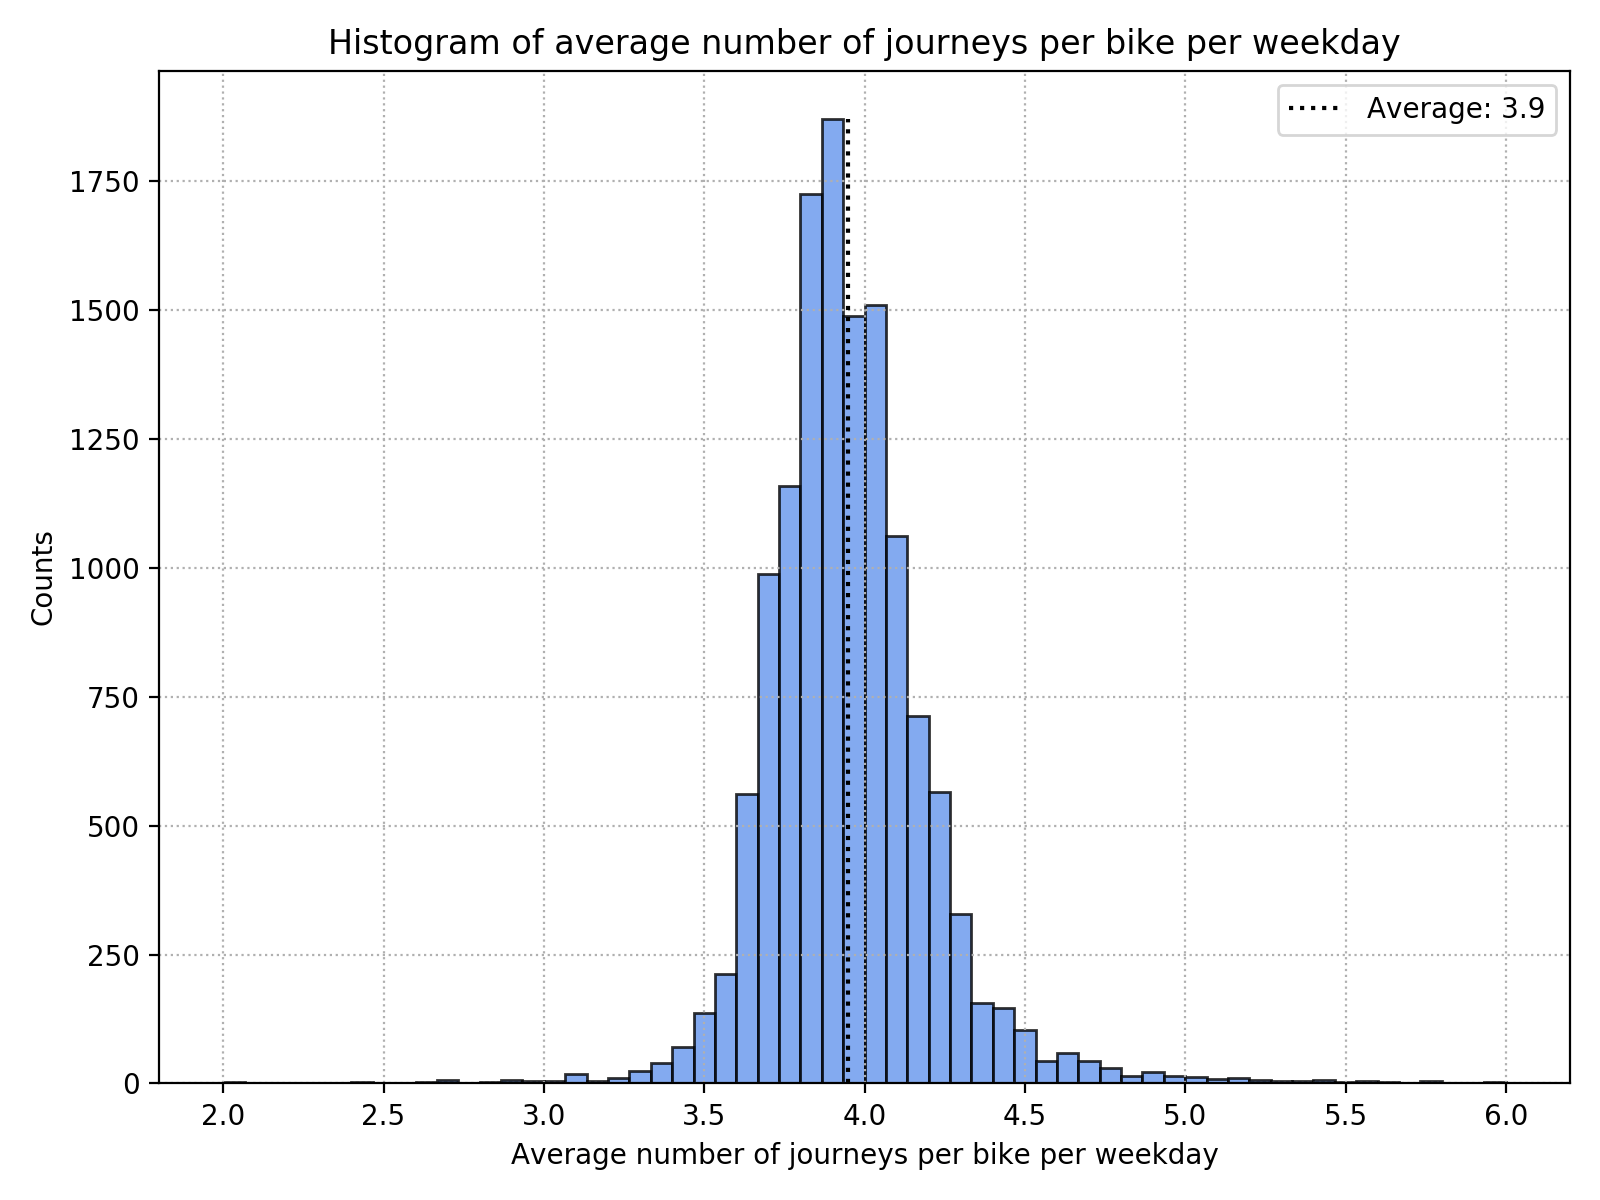
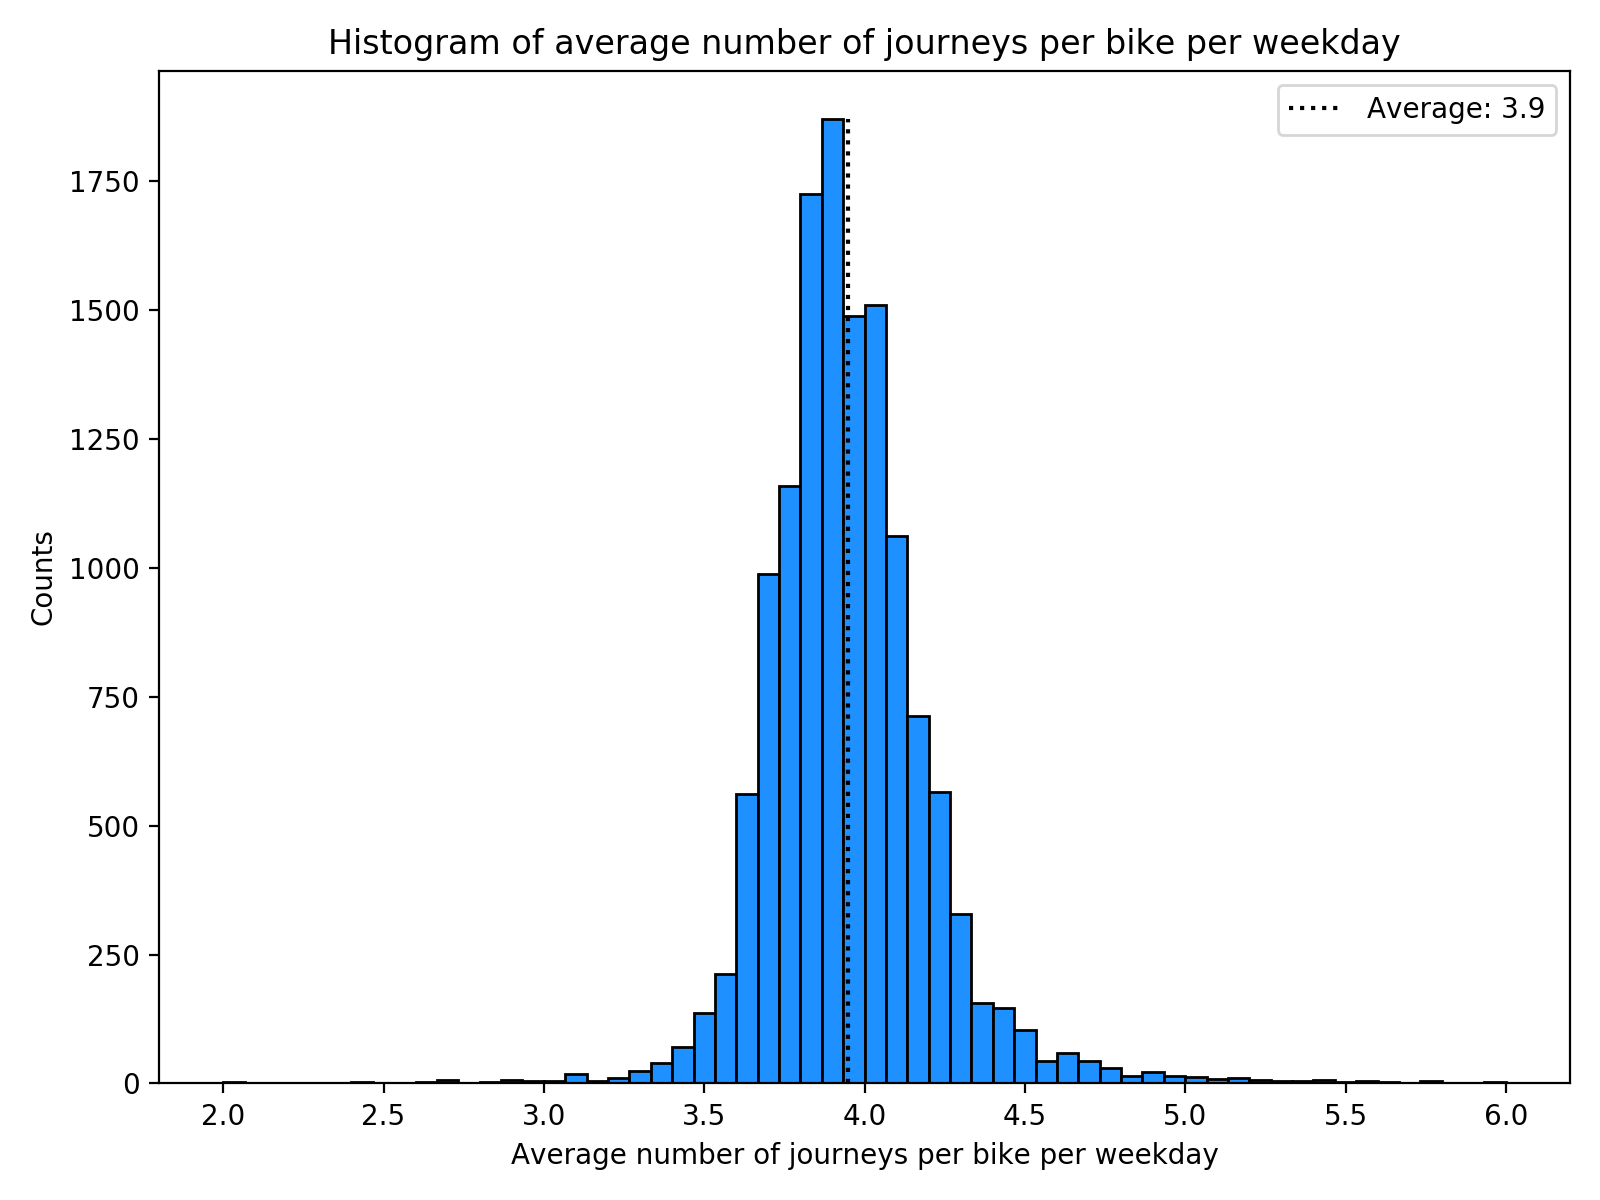
Updated average number of bike rides per weekday

Changed region(s): [[0.3438, 0.0925, 0.7812, 0.925]]

diff --git a/exploratory_data_analysis/journeys_weekdays.py b/exploratory_data_analysis/journeys_weekdays.py
@@ -15,7 +15,19 @@ data_dir = Path(home) / 'Programming/data/s2ds-project-data'
 # connect to SQLite DB on laptop
 flow_journey_db = data_dir / 'FlowJourneyData.db'
 con = sqlite3.connect(flow_journey_db)
-query = '''SELECT Day, Bike_Id, ROUND(AVG(Num_Rides), 2) AS Average FROM (SELECT strftime("%Y-%m-%d", End_Date) AS Day, Bike_Id, COUNT(Rental_Id) AS Num_Rides, SUM(Duration) AS Tot_Time_Rides FROM Journeys WHERE strftime("%w", End_Date) NOT IN ("0", "6") GROUP BY Day, Bike_Id HAVING Tot_Time_Rides > 0) GROUP BY Bike_Id'''
+query = '''SELECT Day, 
+                  Bike_Id, 
+                  ROUND(AVG(Num_Rides), 2) AS Average 
+             FROM (SELECT strftime("%Y-%m-%d", End_Date) AS Day, 
+                          Bike_Id, 
+                          COUNT(Rental_Id) AS Num_Rides, 
+                          SUM(Duration) AS Tot_Time_Rides 
+                     FROM Journeys 
+                    WHERE strftime("%w", End_Date) NOT IN ("0", "6") 
+                 GROUP BY Day, 
+                          Bike_Id 
+                   HAVING Tot_Time_Rides > 0) 
+                 GROUP BY Bike_Id'''
 
 cursor = con.execute(query)
 journey_results = cursor.fetchall()
@@ -23,19 +35,17 @@ journey_results = cursor.fetchall()
 # pandas dataframe
 bike_df = pd.DataFrame(journey_results, columns=[
                        x[0] for x in cursor.description])
-# print(bike_df.head(20))
 
 # histogram
 fig, axes = plt.subplots(figsize=(8, 6))
-axes.hist(bike_df['Average'], 60, range=[2, 6], alpha=0.8,
-          edgecolor='k', color='cornflowerblue')
+axes.hist(bike_df['Average'], 60, range=[2, 6], edgecolor='k', color='dodgerblue')
 avg_num_ride = bike_df['Average'].mean()
 axes.vlines(avg_num_ride, axes.yaxis.get_data_interval()[
             0], axes.yaxis.get_data_interval()[1], linestyles=':', label=f'Average: {avg_num_ride:.1f}')
 axes.set_xlabel('Average number of journeys per bike per weekday')
 axes.set_ylabel('Counts')
 axes.set_title('Histogram of average number of journeys per bike per weekday')
-plt.grid(linestyle=':')
+# plt.grid(linestyle=':')
 print(f'Time elapsed: {time() - t0:.2f} seconds')
 plt.legend(loc='best')
 fig.tight_layout()
